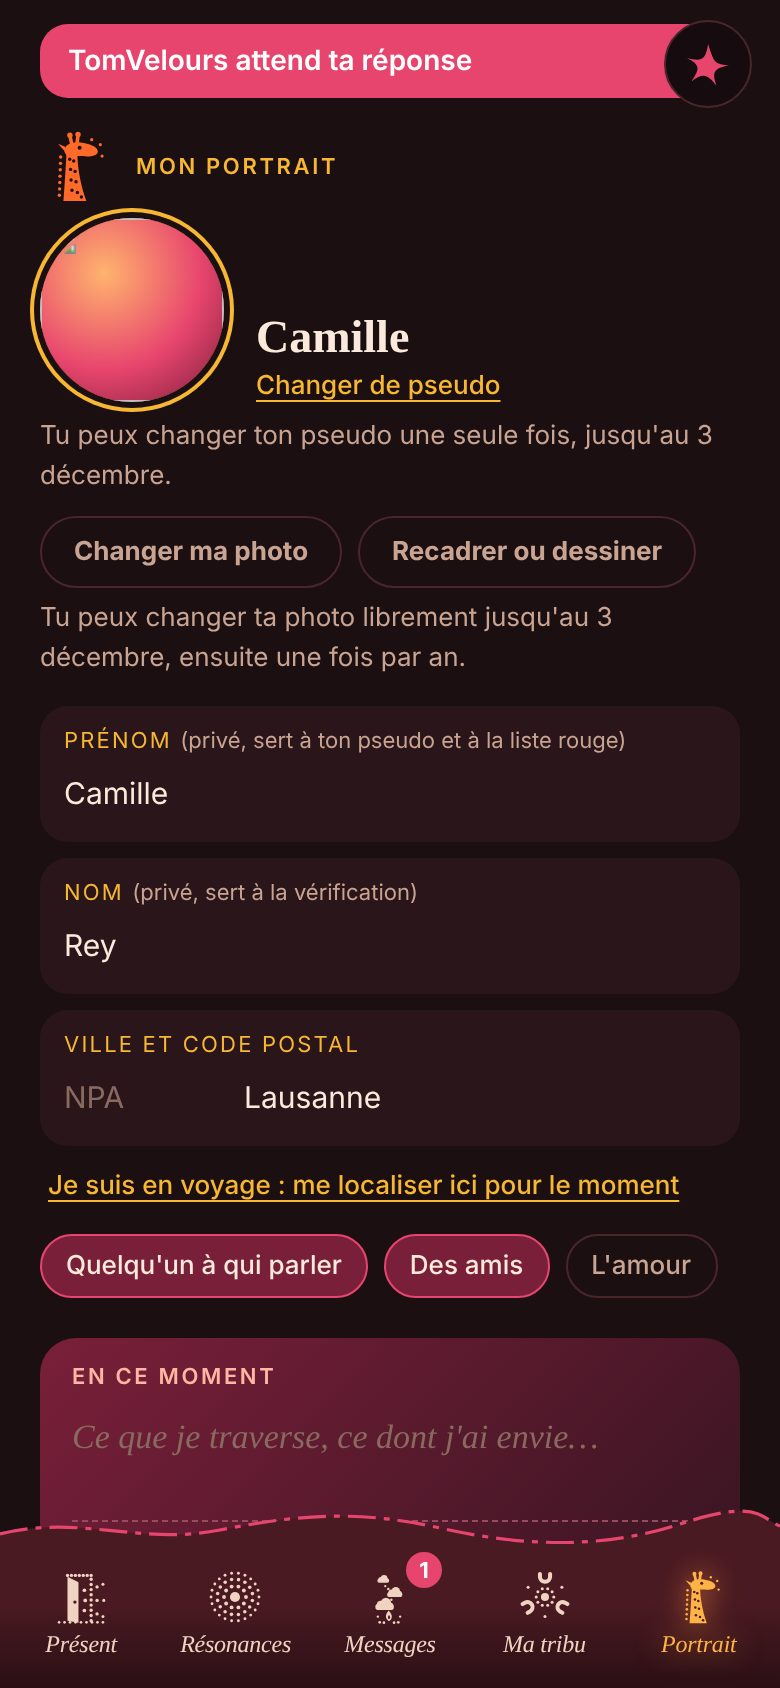
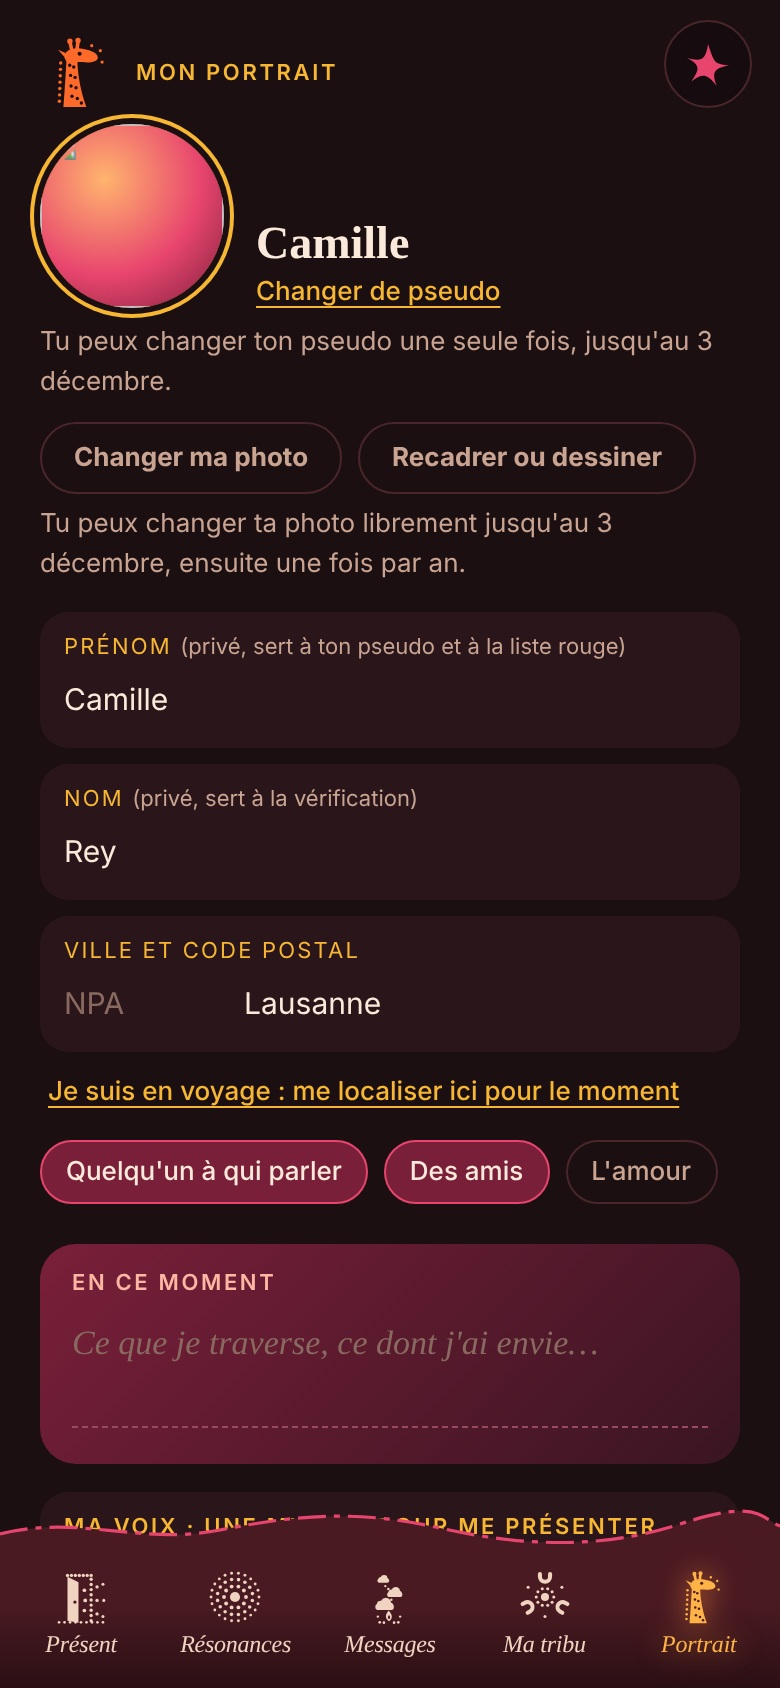
Add files via upload

diff --git a/README.md b/README.md
@@ -1,15 +1,8 @@
-# FeelShareLove — lot 22 (à envoyer APRÈS les lots 20 et 21)
+# FeelShareLove — lot 23 (à envoyer APRÈS le lot 22)
 
-Version 1.9.2 (03/11/2026)
-- Page d'accueil publique en 6 langues : feelsharelove.com (français), /de, /en, /it, /es, /pt — référencement Google/Bing/IA (titres, descriptions, hreflang, Open Graph, JSON-LD, FAQ)
-- L'application elle-même est maintenant à feelsharelove.com/app (l'ancien / redirige tout seul vers /app pour les gens déjà connectés, pour les liens d'invitation et pour l'icône déjà installée sur l'écran d'accueil)
-- Choisir une langue sur la page d'accueil, puis « Commencer », ouvre l'app dans cette langue
-- robots.txt et sitemap.xml à la racine du site
-- Notifications, service worker et manifeste pointent vers /app
-- Captures d'écran et images de partage (Open Graph) dans app/site/
+Version 1.9.3 (03/11/2026)
+- Page d'accueil : textes de la FAQ modifiés (application de lien, résonance, origine « De Suisse ») dans les 6 langues
+- Image de partage refaite : peintures rupestres, texte plus grand, « Sortir de la solitude. Se faire des amis… »
+- Captures d'écran de l'app refaites : sans la bannière « TomVelours attend ta réponse », meilleure qualité
 
-Fichiers : app/site/*, app/robots.txt, app/sitemap.xml, app/sw.js, app/manifest.webmanifest, server/server.js
-
-Après la mise en ligne (à faire par Marc, gratuit) :
-1. Google Search Console (search.google.com/search-console) : ajouter la propriété « feelsharelove.com », vérifier par DNS (OVH), puis « Sitemaps » → envoyer sitemap.xml
-2. Bing Webmaster Tools (bing.com/webmasters) : importer depuis Search Console
+Fichiers : app/site/* (remplace tout le dossier)
